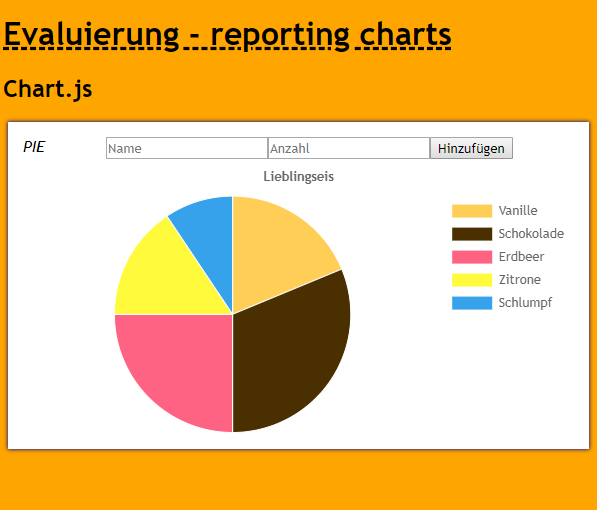
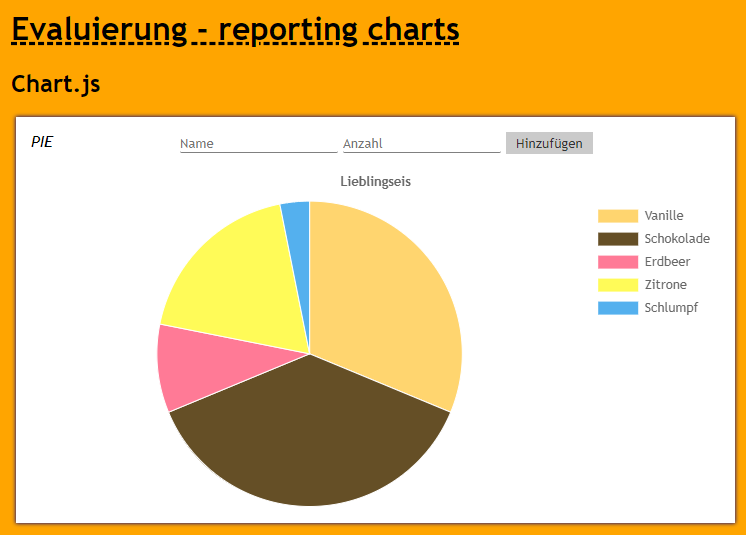
echarts: added radar chart + line chart

diff --git a/src/app/echarts/echarts.component.ts b/src/app/echarts/echarts.component.ts
@@ -10,6 +10,9 @@ import { ECharts, EChartOption } from 'echarts'
 })
 export class EchartsComponent implements AfterViewInit, OnInit {
 
+  private radarChart: ECharts;
+  private isCircleRadar = false;
+
   constructor(private httpService: HttpService, private helper: HelperService) { }
 
   ngOnInit() {
@@ -26,6 +29,18 @@ export class EchartsComponent implements AfterViewInit, OnInit {
     });
   }
 
+  toggleRadarChartMode(){
+    const options: EChartOption = {
+      polar: [
+        {
+          type: this.isCircleRadar ? 'polygon' : 'circle',
+          splitNumber: this.isCircleRadar ? 5 : 9
+        }
+      ],
+    };
+    this.isCircleRadar = !this.isCircleRadar;
+    this.radarChart.setOption(options);
+  }
 
   private initIceCharts(value: any) {
     if (!value) {
@@ -34,16 +49,18 @@ export class EchartsComponent implements AfterViewInit, OnInit {
     const barChart = echarts.init(document.querySelector('div#echart-bar'));
 
     const labels = (<any[]>value.results).map(({ name }) => name);
+    const colors = (<any[]>value.results).map(({ color }) => color);
     const amounts = (<any[]>value.results).map(({ value }) => value);
     const previousAmounts = amounts.map(a => { return Math.abs(a + this.helper.getRandomNumber(-5, 5)) });
 
     const barOptions: EChartOption = {
       tooltip: {
-        show: true
+        show: true,
+        trigger: 'axis'
       },
       legend: {
         data: [value.name + ' 2017',
-        value.name + ' 2018']
+        value.name + ' 2018', 'Durchschnitt']
       },
       xAxis: [
         {
@@ -53,24 +70,32 @@ export class EchartsComponent implements AfterViewInit, OnInit {
       ],
       yAxis: [
         {
-          type: 'value'
+          type: 'value',
+          name: 'Anzahl Personen'
         }
       ],
       series: [
         {
-          "name": value.name + ' 2017',
-          "type": "bar",
-          "data": previousAmounts,
+          name: value.name + ' 2017',
+          type: "bar",
+          data: previousAmounts,
         },
         {
-          "name": value.name + ' 2018',
-          "type": "bar",
-          "data": amounts
+          name: value.name + ' 2018',
+          type: "bar",
+          data: amounts
+        },
+        {
+          name: 'Durchschnitt',
+          type: 'line',
+          data: this.helper.createProcessData(previousAmounts, amounts),
+          // yAxisIndex: 0
         }
       ],
-      color: ['#fecea0', '#b0a1e0']
+      color: ['#fecea0', '#b0a1e0', 'gray']
     };
     barChart.setOption(barOptions);
+    
 
     const pieChart = echarts.init(document.querySelector('div#echart-pie'));
     let pieOptions: EChartOption = {
@@ -80,6 +105,7 @@ export class EchartsComponent implements AfterViewInit, OnInit {
         padding: 120, // fix for missing property x
         // x: 'center' // not yet in @types/echarts
       },
+      color: colors,
       tooltip: {
         trigger: 'item',
         formatter: "{a} <br/>{b} : {c} ({d}%)"
@@ -93,30 +119,15 @@ export class EchartsComponent implements AfterViewInit, OnInit {
         show: true,
         feature: {
           mark: {
-            show: true,
-            title: {
-              mark: 'Linie zeichnen',
-              markUndo: 'Letzte Linie entfernen',
-              markClear: 'Alle Linien löschen'
-            }
+            show: true
           },
           dataView: {
             show: true,
-            readOnly: false,
-            // title: 'Datenansicht', // configured in app component
-            lang: [
-              'Datenansicht',
-              'Schließen',
-              'Neu laden'
-            ]
+            readOnly: false
           },
           magicType: {
             show: true,
             type: ['pie', 'funnel'],
-            title: {
-              pie: 'Kuchendiagram',
-              funnel: 'Trichteransicht'
-            },
             option: {
               funnel: {
                 x: '25%',
@@ -126,11 +137,9 @@ export class EchartsComponent implements AfterViewInit, OnInit {
               }
             }
           },
-          restore: { show: true, title: 'Neu laden' },
+          restore: { show: true },
           saveAsImage: {
-            show: true,
-            title: 'Als Bild speichern',
-            lang: ['Speichern']
+            show: true
           }
         }
       },
@@ -153,6 +162,62 @@ export class EchartsComponent implements AfterViewInit, OnInit {
       return;
     }
 
+    this.radarChart = echarts.init(document.querySelector('div#echart-radar'));
+    const radarOptions: EChartOption = {
+      title: {
+        text: 'Programs looked at',
+        subtext: 'in %'
+      },
+      color: [this.helper.getRandomColor(), this.helper.getRandomColor()],
+      tooltip: {
+        trigger: 'axis'
+      },
+      legend: {
+        x: 'center',
+        data: value.names
+      },
+      toolbox: {
+        show: true,
+        feature: {
+          mark: { show: true },
+          dataView: { show: true, readOnly: true },
+          restore: { show: true },
+          saveAsImage: { show: true }
+        }
+      },
+      polar: [
+        {
+          indicator: value.attributes.map(a => {
+            return { text: a };
+          }),
+          radius: 140 // px
+        }
+      ],
+      series: [
+        {
+          name: 'Programs looked at',
+          type: 'radar',
+          itemStyle: {
+            normal: {
+              areaStyle: {
+                type: 'default'
+              }
+            }
+          },
+          data: [
+            {
+              value: value.values[0],
+              name: value.names[0]
+            },
+            {
+              value: value.values[1],
+              name: value.names[1]
+            }
+          ]
+        }
+      ]
+    };
+    this.radarChart.setOption(radarOptions);
   }
 
 }

diff --git a/src/app/app.component.ts b/src/app/app.component.ts
@@ -28,7 +28,25 @@ export class AppComponent implements OnInit {
     };
     dummyChart.setOption(options);
 
+    this.echarts.config.toolbox.feature.mark.title = {
+      mark: 'Linie zeichnen',
+      markUndo: 'Letzte Linie entfernen',
+      markClear: 'Alle Linien löschen'
+    };
     this.echarts.config.toolbox.feature.dataView.title = 'Datenansicht';
+    this.echarts.config.toolbox.feature.dataView.lang = [
+      'Datenansicht',
+      'Schließen',
+      'Aktualisieren'
+    ];
+    this.echarts.config.toolbox.feature.magicType.title = {
+      pie: 'Kuchendiagram',
+      funnel: 'Trichteransicht'
+    };
+    this.echarts.config.toolbox.feature.restore.title = 'Neu laden';
+    this.echarts.config.toolbox.feature.saveAsImage.title = 'Als Bild speichern';
+    this.echarts.config.toolbox.feature.saveAsImage.lang = ['Speichern'];
+
     this.echarts.config.calculable = true; // enable Drag-Recalculate
 
     // request data before DOM is ready

diff --git a/src/app/echarts/echarts.component.html b/src/app/echarts/echarts.component.html
@@ -6,7 +6,7 @@
   <div>
     <i>Pie</i>
   </div>
-  <div id="echart-pie">
+  <div id="echart-pie" class="echarts">
   </div>
 </div>
 
@@ -14,6 +14,16 @@
   <div>
     <i>Bar</i>
   </div>
-  <div id="echart-bar">
+  <div id="echart-bar" class="echarts">
+  </div>
+</div>
+
+<div class="card">
+  <div>
+    <i>Radar</i>
+    <button (click)="toggleRadarChartMode()">Darstellung ändern</button>
+    <div></div>
+  </div>
+  <div id="echart-radar" class="echarts">
   </div>
 </div>

diff --git a/src/styles.css b/src/styles.css
@@ -43,7 +43,6 @@ input {
     border-right: 0;
     border-radius: 2px;
     margin-right: 5px;
-    margin-bottom: 10px;
 }
 
 button {
@@ -51,6 +50,7 @@ button {
   color: #333333;
   border: none;
   padding: 3px 10px;
+  margin-bottom: 10px;
 }
 
 a {
@@ -62,7 +62,7 @@ a:hover {
   color: darkblue;
 }
 
-#echart-bar, #echart-pie {
+.echarts {
   height: 400px;
 }
 

diff --git a/src/app/http.service.ts b/src/app/http.service.ts
@@ -75,7 +75,6 @@ export class HttpService {
     ];
   }
 
-  // TODO
   private getRandomPercentages(amount: number): number[] {
     const percentages = [];
     let sum = 0;
